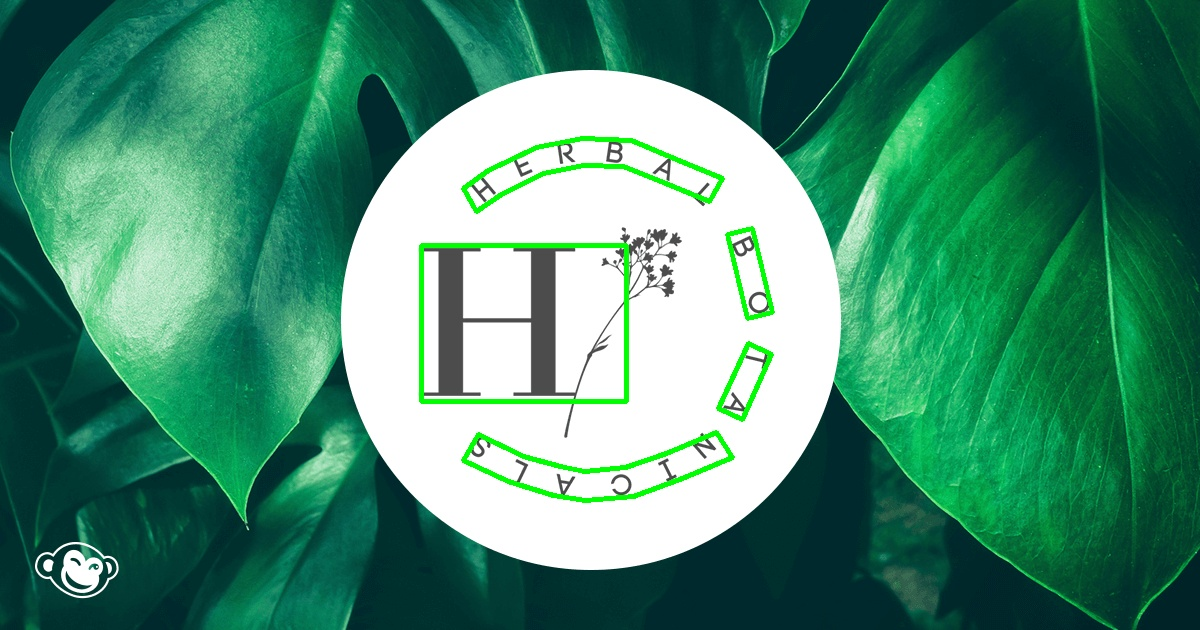
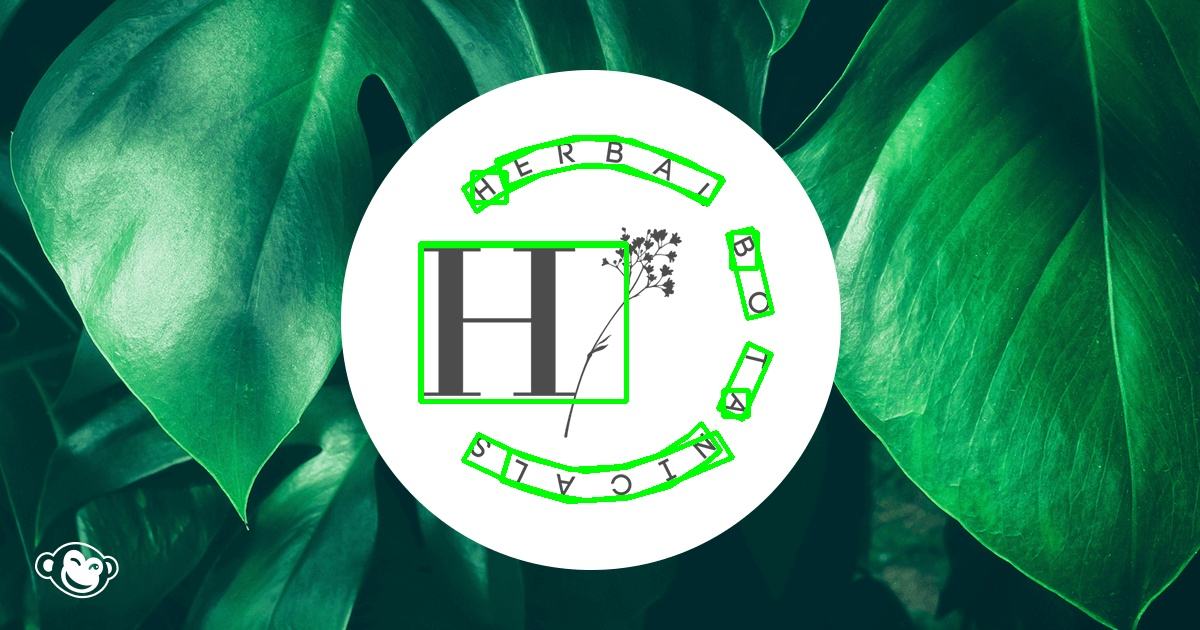
Character level support added

diff --git a/optical_character_recognition/text_detection.py b/optical_character_recognition/text_detection.py
@@ -4,13 +4,13 @@ from optical_character_recognition import utils
 from torch.autograd import Variable
 from optical_character_recognition.models import CRAFT
 from optical_character_recognition.models import RefineNet
+from optical_character_recognition.text_recognition import TextRecognition
 
 class TextDetection(nn.Module):
-    def __init__(self, refine, trained_model = 'optical_character_recognition/pretrained_models/craft_mlt_25k.pth', refiner_model = 'optical_character_recognition/pretrained_models/craft_refiner_CTW1500.pth'):
+    def __init__(self, trained_model = 'optical_character_recognition/pretrained_models/craft_mlt_25k.pth', refiner_model = 'optical_character_recognition/pretrained_models/craft_refiner_CTW1500.pth'):
         super().__init__()
         self.refiner_model = refiner_model
         self.trained_model = trained_model
-        self.refine = refine
         self.model = CRAFT()  
         
         if torch.cuda.is_available():
@@ -20,18 +20,17 @@ class TextDetection(nn.Module):
         else:
             self.model.load_state_dict(utils.copyStateDict(torch.load(self.trained_model, map_location='cpu')))
         self.model.eval()
+    
+        self.refine_net = RefineNet()
+        print('Loading weights of refiner from checkpoint (' + self.refiner_model + ')')
+        if torch.cuda.is_available():
+            self.refine_net.load_state_dict(utils.copyStateDict(torch.load(self.refiner_model)))
+            self.refine_net = self.refine_net.cuda()
+        else: self.refine_net.load_state_dict(utils.copyStateDict(torch.load(self.refiner_model, map_location='cpu')))
         
-        if self.refine:
-            self.refine_net = RefineNet()
-            print('Loading weights of refiner from checkpoint (' + self.refiner_model + ')')
-            if torch.cuda.is_available():
-                self.refine_net.load_state_dict(utils.copyStateDict(torch.load(self.refiner_model)))
-                self.refine_net = self.refine_net.cuda()
-            else: self.refine_net.load_state_dict(utils.copyStateDict(torch.load(self.refiner_model, map_location='cpu')))
-            
-            self.refine_net.eval()
-        
-    def forward(self, image_path, text_threshold = 0.7, link_threshold = 0.4, low_text = 0.4, canvas_size = 1280, mag_ratio = 1.5, refine_net= True):
+        self.refine_net.eval()
+    
+    def forward(self, image_path, text_threshold = 0.7, link_threshold = 0.4, low_text = 0.4, canvas_size = 1280, mag_ratio = 1.5):
         image = self._load_image(image_path)
         img_resized, target_ratio, size_heatmap = utils.resize_aspect_ratio(image, canvas_size, interpolation=cv2.INTER_LINEAR, mag_ratio=mag_ratio)
         ratio_h = ratio_w = 1 / target_ratio
@@ -53,43 +52,52 @@ class TextDetection(nn.Module):
         extrapolated_affinity_score = cv2.resize(affinity_score, image.shape[:2][::-1], interpolation = cv2.INTER_CUBIC)
 
         # refine link
-        if self.refine:
-            with torch.no_grad():
-                y_refiner = self.refine_net(y, feature)
-            affinity_score = y_refiner[0,:,:,0].cpu().data.numpy()
+        with torch.no_grad():
+            y_refiner = self.refine_net(y, feature)
+        refiner_affinity_score = y_refiner[0,:,:,0].cpu().data.numpy()
         
         # Post-processing
         boxes, polys = utils.getDetBoxes(region_score, affinity_score, text_threshold, link_threshold, low_text, True)
+        refined_boxes, refined_polys = utils.getDetBoxes(region_score, refiner_affinity_score, text_threshold, link_threshold, low_text, True)
 
         # coordinate adjustment
         boxes = utils.adjustResultCoordinates(boxes, ratio_w, ratio_h)
         polys = utils.adjustResultCoordinates(polys, ratio_w, ratio_h)
+        refined_boxes = utils.adjustResultCoordinates(refined_boxes, ratio_w, ratio_h)
+        refined_polys = utils.adjustResultCoordinates(refined_polys, ratio_w, ratio_h)
+        
         for k in range(len(polys)):
             if polys[k] is None: polys[k] = boxes[k]
+
+        for k in range(len(refined_polys)):
+            if refined_polys[k] is None: refined_polys[k] = refined_boxes[k]
+
+        boxes, polys = np.concatenate([boxes, refined_boxes], axis = 0), np.concatenate([polys, refined_polys], axis = 0)
 
         return boxes, polys, extrapolated_region_score, extrapolated_affinity_score 
 
     def _load_image(self, image_path):
         return utils.loadImage(image_path)
 
-    def display(self, image_path, result_folder):
+    def display(self, image_path, result_folder, show = True, threshold = 0.9):
         image = self._load_image(image_path)
-        _, polys, _, _ = self.forward(image_path)
-        utils.display(image_path, image[:,:,::-1], polys, dirname=result_folder)  
+        boxes, polys, _, _ = self.forward(image_path, text_threshold=threshold)
+        image = utils.display(image_path, image[:,:,::-1], polys, dirname=result_folder, show = show)
+        return image, boxes, polys   
 
 if __name__ == '__main__':
 
     parser = argparse.ArgumentParser(description='CRAFT Text Detection')
-    parser.add_argument('--trained_model', default='optical_character_recognition/pretrained_models/craft_mlt_25k.pth', type=str, help='pretrained model')
-    parser.add_argument('--refiner_model', default='optical_character_recognition/pretrained_models/craft_refiner_CTW1500.pth', type=str, help='refiner model')
-    parser.add_argument('--refine', default=True, type=str, help='refine')
+
     parser.add_argument('--test_folder', default='Data/test/test_images/', type=str, help='folder path to input images')
     parser.add_argument('--test_image', default=None, type=str, help='To test an image')
     args = parser.parse_args()
 
+    device = torch.device("cuda" if torch.cuda.is_available() else "cpu")
+
     result_folder = './optical_character_recognition/inference_examples/'
-    if not os.path.isdir(result_folder):
-        os.mkdir(result_folder)
+    os.makedirs(result_folder, exist_ok = True)
+
     image_root = args.test_folder
     image_dir = os.listdir(image_root)
     image_path = os.path.join(image_root, random.choice(image_dir))
@@ -97,8 +105,13 @@ if __name__ == '__main__':
     if args.test_image:
         image_path = args.test_image
     
-    text_detector = TextDetection(args.refine, args.trained_model, args.refiner_model).cuda()
+    text_detector = TextDetection().to(device)
     boxes, polys, region_score, affinity_score = text_detector(image_path)
-    text_detector.display(image_path, result_folder)
-
-    breakpoint()
+    
+    image = cv2.imread(image_path)
+    letter_boxes, image = utils.character_level_boxes(image, region_score)
+    
+    # Test it out 
+    print(letter_boxes)
+    cv2.imshow("", image)
+    cv2.waitKey(0)

diff --git a/optical_character_recognition/utils.py b/optical_character_recognition/utils.py
@@ -240,10 +240,36 @@ def list_files(in_path):
                 continue
     return img_files, mask_files, gt_files
 
-def display(img_file, img, boxes, dirname='./inference_examples/'):
+def character_level_boxes(image: np.ndarray, region_score_map: np.ndarray):
+    """
+    Given the region score map and the image itself, 
+    generate character level boxes 
+    Make sure Region Score map is in range 0 -> 1 
+    """
+    _, thresh = cv2.threshold(np.uint8(region_score_map * 255), 128, 255, cv2.THRESH_BINARY) 
+    kernel = np.ones((3,3),np.uint8)
+    opening = cv2.morphologyEx(thresh,cv2.MORPH_OPEN, kernel, iterations = 2)
+    ret, markers = cv2.connectedComponents(opening)
+    letter_boxes = []
+
+    for i in np.unique(markers)[1:]:
+        #img = cv2.imread(image_path)
+        mask = np.zeros((image.shape[0], image.shape[1]), dtype = np.uint8)
+        mask[markers == i] = 255
+        mask = cv2.morphologyEx(mask, cv2.MORPH_DILATE, kernel, iterations = 8)
+        top, bottom = np.min(np.where(np.max(mask,axis=1)==255)), np.max(np.where(np.max(mask,axis=1)==255))
+        left, right  = np.min(np.where(np.max(mask,axis=0)==255)), np.max(np.where(np.max(mask,axis=0)==255))
+        letter_box = ((left, top), (right, bottom))
+        letter_boxes.append(np.array([(top, left), (right, bottom)]))
+        cv2.rectangle(image, letter_box[0], letter_box[1], color = (0, 255, 0))
+
+    return letter_boxes, image
+
+
+def display(img_file, img, boxes, dirname='./inference_examples/', show = True):
         img = np.array(img)
         filename, _ = os.path.splitext(os.path.basename(img_file))
-        result = dirname + "detection_" + filename + '.jpg'
+        result = os.path.join(dirname, filename +'.jpg')
         if not os.path.isdir(dirname):
             os.mkdir(dirname)
 
@@ -252,10 +278,13 @@ def display(img_file, img, boxes, dirname='./inference_examples/'):
             poly = poly.reshape(-1, 2)
             cv2.polylines(img, [poly.reshape((-1, 1, 2))], True, color=(0, 255, 0), thickness=3)
 
-        plt.figure(figsize = (20, 30))
-        plt.imshow(cv2.cvtColor(img, cv2.COLOR_BGR2RGB))
-        plt.xticks([]), plt.yticks([]), plt.show()
-        cv2.imwrite(result, img)
+        if show == True:
+            plt.figure(figsize = (20, 30))
+            plt.imshow(cv2.cvtColor(img, cv2.COLOR_BGR2RGB))
+            plt.xticks([]), plt.yticks([]), plt.show()
+        else: cv2.imwrite(result, img)
+        
+        return img
 
 def loadImage(img_file):
     img = io.imread(img_file)           

diff --git a/optical_character_recognition/end_to_end_ocr.py b/optical_character_recognition/end_to_end_ocr.py
@@ -46,7 +46,7 @@ class EndToEndOCR(nn.Module):
         """
         ocr_tokens = list()
         image = cv2.imread(image_path)
-        boxes, _, _ = self.text_detector(image_path)
+        boxes, _, _, _ = self.text_detector(image_path)
         boxes = boxes.astype(np.int32)
         for box in boxes:
             x_max, x_min = max(box[:, 0]), min(box[:, 0])
@@ -66,7 +66,7 @@ class EndToEndOCR(nn.Module):
         text region crops one by one
         """
         image = cv2.imread(image_path)
-        boxes, _, _ = self.text_detector(image_path)
+        boxes, _, _, _ = self.text_detector(image_path)
         boxes = boxes.astype(np.int32)
         for box in boxes:
             x_max, x_min = max(box[:, 0]), min(box[:, 0])
@@ -95,5 +95,5 @@ if __name__ == '__main__':
 
     # Instantiate OCR model, get tokens in the image (acc. to the model), visualize what the model saw as what
     ocr = EndToEndOCR()
-    tokens_in_image, embeddings,num_tokens = ocr(image_path)
+    tokens_in_image, embeddings, num_tokens = ocr(image_path)
     ocr.visualize_predictions(image_path)
